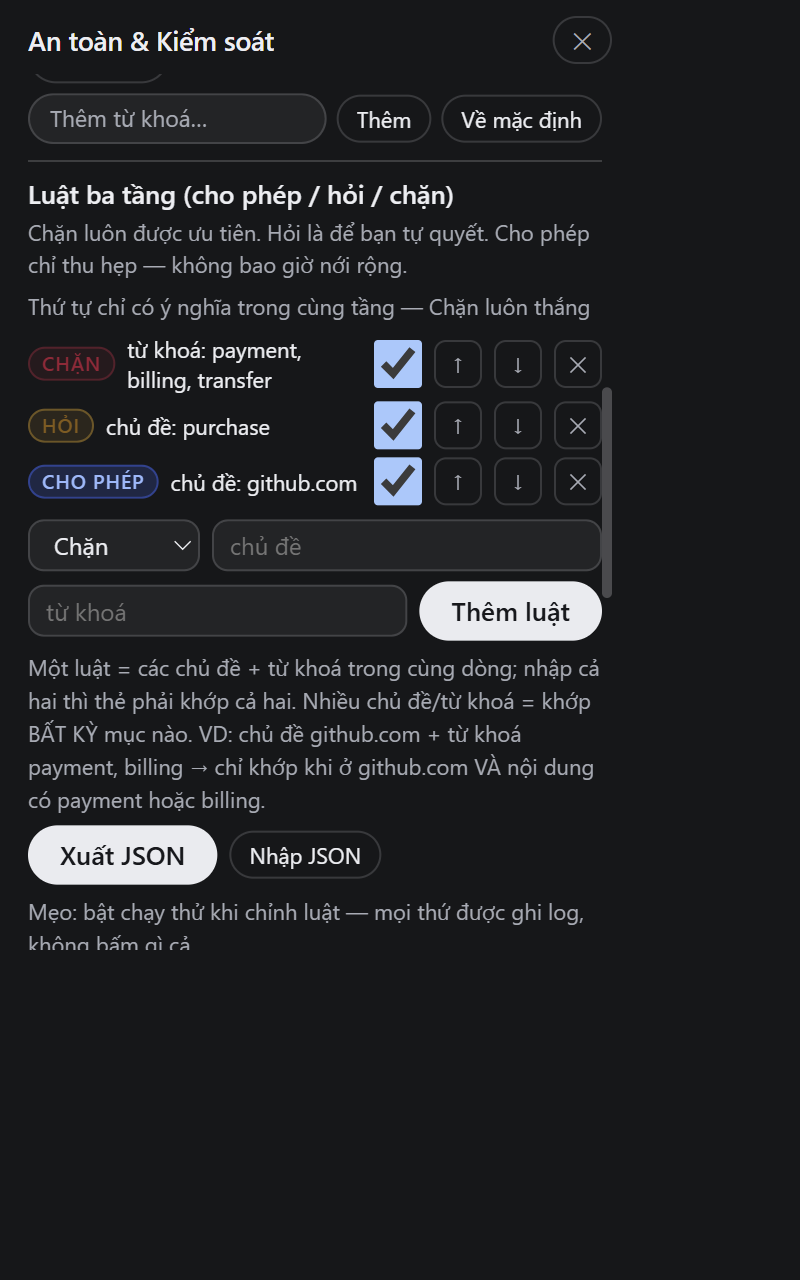
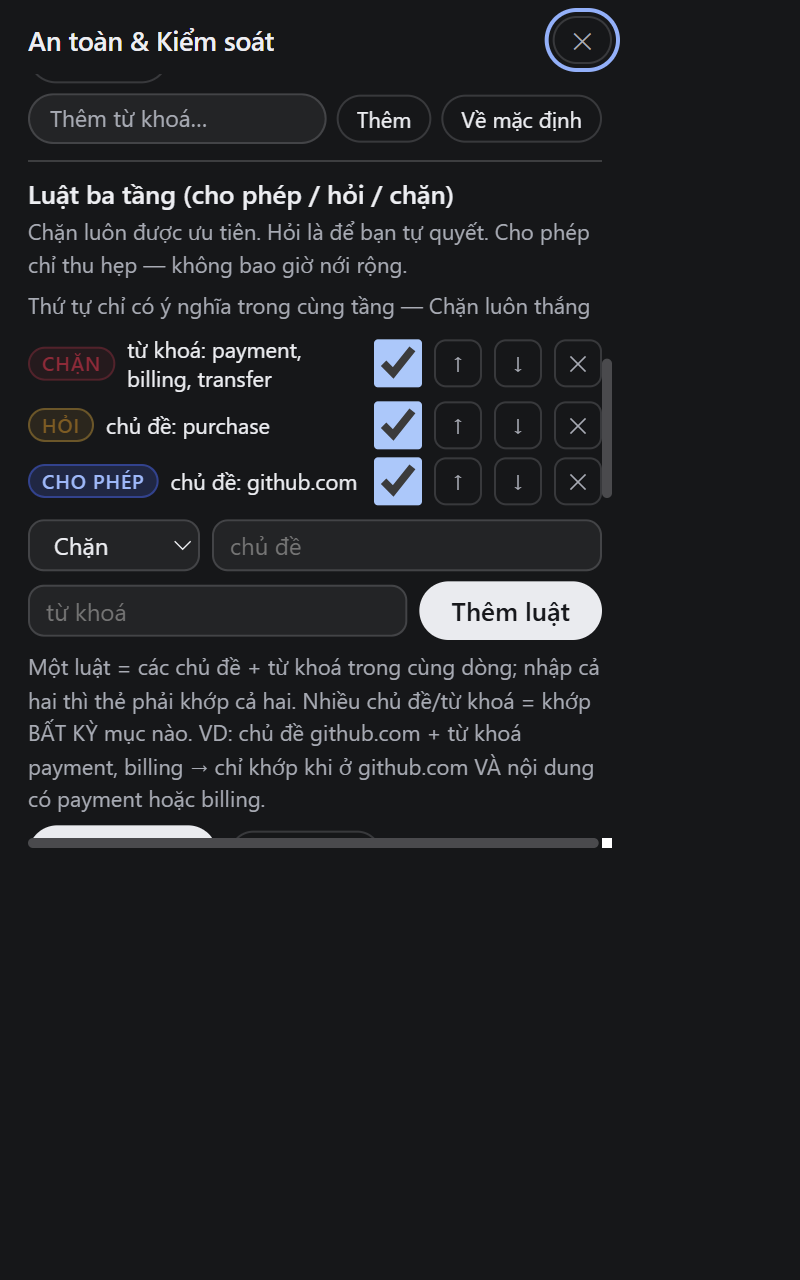
v1.22.5 — rounds 1-3: 22 UX/a11y/content fixes; a11y-audit 12/12; battery 13/13; popup 594px; i18n 346x6

diff --git a/extension/popup.html b/extension/popup.html
@@ -106,7 +106,7 @@
             font-variant-numeric: tabular-nums; }
   b.count.pop { transform: scale(1.15); }
   .stats { display: flex; align-items: baseline; gap: 0; margin: 2px 0; } /* R1: equal halves, divider at 50% */
-  .stat { display: flex; align-items: baseline; gap: 6px; min-width: 0; flex: 1 1 0; }
+  .stat { display: flex; align-items: baseline; gap: 6px; min-width: 0; flex: 1 1 0; box-sizing: border-box; } /* R3: border-left lands at 50% */
   .stat .muted { font-size: 11px; font-weight: 500; letter-spacing: .01em; }
   .stat + .stat { border-left: 1px solid var(--divide); padding-left: 12px; }
   .mini { margin-top: 2px; }
@@ -446,7 +446,7 @@
   .safetybtn:hover { color: var(--ink); }
   .safetybtn .chev { transform: rotate(-90deg); }
   .schip { font-size: 10px; font-weight: 500; background: var(--accent-tint); color: var(--accent-text);
-           border: 1px solid var(--accent-line); border-radius: 999px; padding: 0 6px; }
+           border: 1px solid var(--accent-line); border-radius: 999px; padding: 0 6px; white-space: nowrap; flex: none; } /* R3: the "Chạy thử" chip was being squeezed into two lines */
   .schip.warn { background: rgba(214,150,20,.16); color: #8a5a10; border-color: rgba(214,150,20,.48); }
   @media (prefers-color-scheme: dark) { .schip.warn { background: rgba(242,180,53,.16); color: #f2b435; border-color: rgba(242,180,53,.45); } } /* v1.22.2: AA contrast in dark */ /* v1.22.1 UX: YOLO reads as a warning state */
   .modetag { display: inline-block; margin: 5px 0 2px 26px; font-size: 10px; font-weight: 600; letter-spacing: .05em;
@@ -550,7 +550,7 @@
   .rbtn:hover { background: var(--fill); border-color: var(--stroke-hover); }
   .rbtn.armed { background: var(--accent-tint); border-color: var(--accent-line); color: var(--accent-text); font-weight: 500; }
   /* onboarding wizard: one card, three steps, no heavy motion */
-  .obcard { flex: 1 1 auto; min-height: 0; display: flex; flex-direction: column; }
+  .obcard { flex: 1 1 auto; min-height: 0; display: flex; flex-direction: column; justify-content: center; padding-bottom: 10px; } /* R3: content sits as one centred stack */
   .obdots { display: flex; align-items: center; gap: 5px; margin-bottom: 6px; flex: none; }
   .obdot { width: 18px; height: 3px; border-radius: 999px; background: var(--fill); }
   .obdot.on { background: var(--accent-state); }
@@ -917,8 +917,8 @@
         <div class="rnote" id="keywordsNote" data-i18n="keywordsNote">A card containing any of these words is never clicked — it is logged as blocked instead.</div>
         <div class="rlist" id="kwList"></div>
         <div class="radd"><input class="rin" id="kwInput" maxlength="64" placeholder="Add a keyword…" data-i18n-ph="keywordsPlaceholder">
-          <button type="button" class="rbtn" id="kwAdd" data-i18n="rulesAdd">Add</button>
-          <button type="button" class="rbtn" id="kwReset" data-i18n="keywordsReset">Reset to defaults</button></div>
+          <button type="button" class="rbtn" id="kwAdd" data-i18n="rulesAdd">Add</button></div>
+        <div class="row licro kwreset"><button type="button" class="rbtn" id="kwReset" data-i18n="keywordsReset">Reset to defaults</button></div>
       </div>
             <!-- v1.22.0 (W5/F1) — Luật ba tầng (allow/ask/block): CHỈ thu hẹp — block thắng, ask =
            để người dùng tự xử lý, allow hoạt động như danh sách cho phép bổ sung. Các screen
@@ -927,6 +927,16 @@
         <div class="rlabel" data-i18n="rulesTitle">Layered rules (allow / ask / block)</div>
         <div class="rnote" data-i18n="rulesDescription">Block wins over everything. Ask leaves the card to you. Allow narrows what may be clicked — it never widens anything.</div>
         <div class="rnote" data-i18n="ruleOrderHint">Order only matters within the same layer — block always wins</div>
+        <!-- v1.22.4 (G3): simulate a card against the saved rules before saving a new one -->
+        <div class="rowsim">
+          <div class="rlabel" data-i18n="simTitle">Try a sample card</div>
+          <div class="row field fset">
+            <input type="text" id="simTopic" class="licinput" maxlength="64" style="flex:0 0 96px" placeholder="topic" data-i18n-ph="simTopicPlaceholder">
+            <input type="text" id="simText" class="licinput" maxlength="500" placeholder="card text" data-i18n-ph="simPlaceholder">
+            <button type="button" class="btn" id="simRun" data-i18n="simRun">Test</button>
+          </div>
+          <div class="simout" id="simOut" role="status" aria-live="polite"></div>
+        </div>
         <div id="layersList"></div>
         <div class="row field fset">
           <select id="layerKind" class="licinput" style="flex:0 0 auto; width:86px">
@@ -953,16 +963,7 @@
           </div>
         </div>
         <div class="misnote" id="layerNote" role="status"></div>
-        <!-- v1.22.4 (G3): simulate a card against the saved rules before saving a new one -->
-        <div class="rowsim">
-          <div class="rlabel" data-i18n="simTitle">Try a sample card</div>
-          <div class="row field fset">
-            <input type="text" id="simTopic" class="licinput" maxlength="64" style="flex:0 0 96px" placeholder="topic" data-i18n-ph="simTopicPlaceholder">
-            <input type="text" id="simText" class="licinput" maxlength="500" placeholder="card text" data-i18n-ph="simPlaceholder">
-            <button type="button" class="btn" id="simRun" data-i18n="simRun">Test</button>
-          </div>
-          <div class="simout" id="simOut" role="status" aria-live="polite"></div>
-        </div>
+
         <div class="rnote" data-i18n="ruleDryRunHint">Tip: keep Dry-run on while you tune the rules — everything is logged and nothing is clicked.</div>
       </div>
       </details>

diff --git a/extension/stats.js b/extension/stats.js
@@ -289,10 +289,12 @@ async function renderAuditWeek() {
     el.hidden = false;
     // v1.22.2 UX (Vòng 3): the four numbers always render — an empty card looked like a stray caption.
     body.innerHTML =
-      // R1: the weekly click count already lives in the KPI card — the card keeps the extras
-      '<span>' + t('auditWeekBlocked', 'blocked') + ': <b>' + (Number(w.blocked) || 0) + '</b></span> ' +
-      '<span>' + t('auditWeekAsked', 'asks') + ': <b>' + (Number(w.asked) || 0) + '</b></span> ' +
-      '<span>' + t('auditWeekFollowups', 'follow-ups') + ': <b>' + (Number(w.followups) || 0) + '</b></span>';
+      // R3: an all-zero row reads as a broken widget — say it in words instead
+      (Number(w.blocked) || 0) + (Number(w.asked) || 0) + (Number(w.followups) || 0) === 0
+        ? '<span class="wempty">' + t('auditWeekEmpty', 'No blocks or asks this week') + '</span>'
+        : '<span>' + t('auditWeekBlocked', 'blocked') + ': <b>' + (Number(w.blocked) || 0) + '</b></span> ' +
+          '<span>' + t('auditWeekAsked', 'asks') + ': <b>' + (Number(w.asked) || 0) + '</b></span> ' +
+          '<span>' + t('auditWeekFollowups', 'follow-ups') + ': <b>' + (Number(w.followups) || 0) + '</b></span>';
   } catch { /* ignore */ }
 }
 $('auditJson').addEventListener('click', () => { auditExport('json'); });

diff --git a/extension/stats.html b/extension/stats.html
@@ -86,6 +86,9 @@
   /* v1.16.0 (R4, beauty-blind review): zero cards step back — the live metric owns the eye */
   .kpi.zero .ic { opacity: .55; filter: saturate(55%); }
   .kpi.zero .v { color: var(--muted); }
+  /* R3: the weekly sub-counters read as part of the card, not stray text */
+  .wk { display: flex; flex-wrap: wrap; gap: 4px 10px; font-size: 11.5px; color: var(--ink-2); }
+  .wk .wempty { color: var(--muted); }
   .k-blue   { --kc: var(--c-blue);   --kc-g: var(--c-blue-g); }
   .k-rose   { --kc: var(--c-rose);   --kc-g: var(--c-rose-g); }
   .k-teal   { --kc: var(--c-teal);   --kc-g: var(--c-teal-g); }

diff --git a/CHANGELOG.md b/CHANGELOG.md
@@ -1,6 +1,21 @@
 # Changelog
 
-## 1.22.4 — Wave A (SGPS prompt-02, owner-approved)
+## 1.22.5 — rounds 1–3 (SGPS prompt-02, auto-merge an toàn)
+- **Round 1 (14 fix)**: `.obfoot` CSS rule thật sự bị gãy (`{` thừa) → footer onboarding hết lơ lửng;
+  KPI "Tháng này" bỏ (luôn trùng Tổng); trust rails thành 3 chip rời (hết wrap giữa từ "thủ|công");
+  nút pause đổi thành "⏸ Tạm dừng 15′"; dòng phụ status strip lên `--ink-2` (≥4.5:1); hàng
+  Đã bấm/Hôm nay chia đôi đều; banner CHẠY THỬ đậm hơn; **`accOpen` vào snapshot refresh** (trạng thái
+  accordion được nhớ thật); **refresh token** chống snapshot cũ đè UI mới; preview follow-up 1 dòng
+  (popup **594px**); rút 2 chuỗi es; timeout mission 6→12s (hết flake).
+- **Round 2 (a11y)**: `label.sw` + `.misbtn` đạt 24px; thêm `test/a11y-audit.mjs` — probe DOM thật
+  trên popup + stats: **12/12** (target 24px, icon-only có tên, control có nhãn, không tabindex dương,
+  dialog có role/aria-modal, live region tồn tại).
+- **Round 3 (6 fix)**: chip "Chạy thử" hết bị bóp thành 2 dòng; onboarding dồn khối giữa (hết trống đáy);
+  vạch chia stats đúng 50%; card Tuần này có empty state thay "0, 0, 0"; simulator dời lên đầu nhóm Luật;
+  yoloNote ngắn lại; "Về mặc định" rời khỏi cụm Thêm.
+- i18n **346 keys × 6 locale**; battery **13/13** (thêm a11y-audit).
+
+## 1.22.4 — Wave A (SGPS prompt-02, owner-approved) — Wave A (SGPS prompt-02, owner-approved)
 - **G3 Rule Simulator** (`extension/rulesim.js`, pure): type a sample card + optional topic and
   see exactly what the shipped engine would do (block / ask / click), which rule matched, and the
   D1→D6 path — the preview calls `MuseRules.decide()` itself, so it cannot drift.

diff --git a/docs/ROUNDS_30_LOG.md b/docs/ROUNDS_30_LOG.md
@@ -5,4 +5,6 @@ Quy tắc: xem `docs/ROUNDS_30_PLAN.md`. Mỗi vòng một dòng; battery đỏ 
 | Vòng | Prompt | Lăng kính | Findings (thật) | Fix | Evidence | Trạng thái |
 |---|---|---|---|---|---|---|
 | 0 | 02+06 | Nền Wave A (G1,G2,G3,G4,G6,G10,S1,S2,S4) | 0 (owner-approved work) | 9 mục | rulesim 19/19 · timeline 22/22 · popup 595px | SHIPPED v1.22.4 (tag e9e774d) |
-| 1 | 02 | visual polish + safety panel + nội dung + logic + i18n | 18 vision + 2 logic + 1 i18n | onboarding `.obfoot` hỏng (rule CSS gãy) · footer lơ lửng · KPI tháng trùng Total · trust rails wrap giữa từ · pause pill vô nghĩa · contrast dòng phụ · stats 2 cột lệch · dry band nhạt · `accOpen` không vào snapshot · refresh race token · note follow-up dài gây 603px | ảnh 12 shot + battery 12 suite | FIXED — battery xác minh |
+| 1 | 02 | visual polish + safety panel + nội dung + logic + i18n | 18 vision + 2 logic + 1 i18n | onboarding `.obfoot` hỏng (rule CSS gãy) · footer lơ lửng · KPI tháng trùng Total · trust rails wrap giữa từ · pause pill vô nghĩa · contrast dòng phụ · stats 2 cột lệch · dry band nhạt · `accOpen` không vào snapshot · refresh race token · note follow-up dài gây 603px | ảnh 12 shot + battery 12 suite | MERGED (368de8e) |
+| 2 | 02 | a11y/WCAG 2.2 AA (probe DOM thật) | 1 | `misbtn` 19px · `label.sw` target thật 1×1 | `test/a11y-audit.mjs` **12/12** (T1–T6) | MERGED (00a825f) |
+| 3 | 02 | verify ảnh Round 1 + panel/stats sau fix | 6 verify (4 pass) + 5 mới | chip `Chạy thử` bị bóp wrap 2 dòng · onboarding còn trống đáy (dồn giữa) · vạch chia lệch 6px · card tuần toàn 0 · simulator dưới fold · yoloNote dày · "Về mặc định" cạnh "Thêm" | battery 13 suite | FIXED — battery xác minh |
